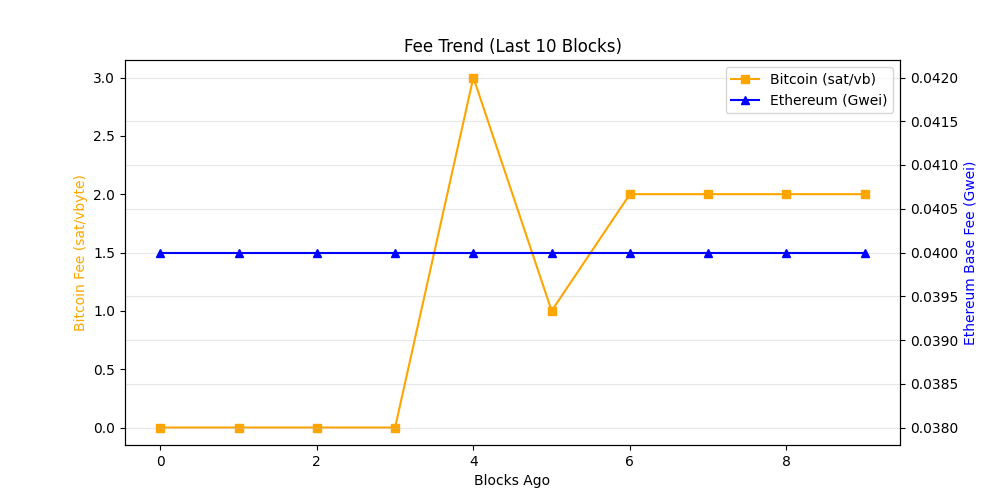
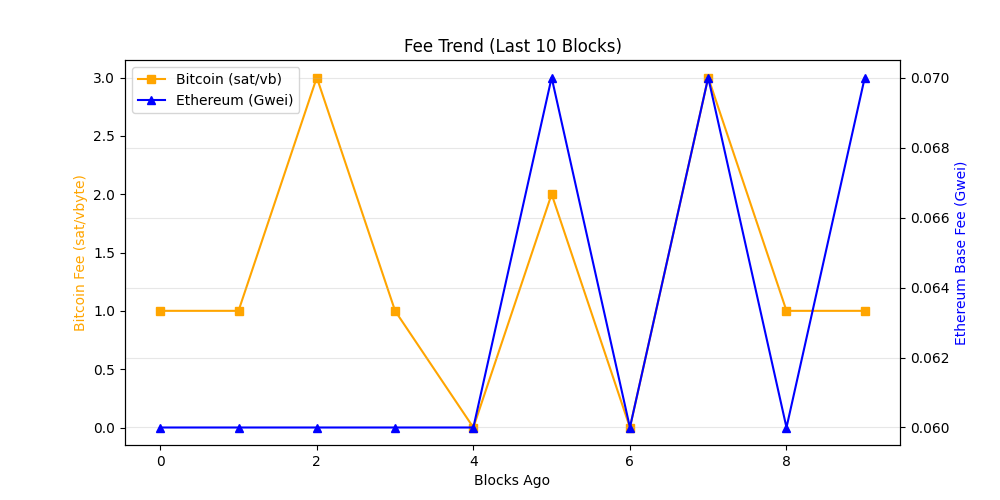
chore: update on-chain dashboard

diff --git a/README.md b/README.md
@@ -19,7 +19,7 @@ The README itself acts as the dashboard and is regenerated automatically on a 6 
 demonstrating a production-style, infrastructure-focused observability workflow rather
 than a traditional UI-driven approach.
 
-_Last updated: 2026-03-01 18:50 UTC_
+_Last updated: 2026-03-02 03:10 UTC_
 
 ## API Usage (GetBlock.io)
 - Calls used: **24**
@@ -27,8 +27,8 @@ _Last updated: 2026-03-01 18:50 UTC_
 ## Network Metrics
 | Chain | Block Height | TX Count | TPS (10 blk avg) | Block Util | Avg Fee |
 |------|-------------|----------|------------------|------------|---------|
-| Ethereum | 24564496 | 349 | 29.08 | 95.58% | 0.0 Gwei |
-| Bitcoin | 938903 | 2991 | 3.08 | 86.71% | N/A |
+| Ethereum | 24566986 | 641 | 53.42 | 50.76% | 0.1 Gwei |
+| Bitcoin | 938943 | 4285 | 11.13 | 99.8% | N/A |
 
 ## Visuals
 ### Transactions Trend
@@ -43,7 +43,10 @@ _Last updated: 2026-03-01 18:50 UTC_
 ## Whale Alerts (latest block)
 - Transaction hashes are truncated for readability.
 - Full hashes are available in `dashboards/metrics.json`
-No whale-sized transfers detected in latest blocks.
+- Bitcoin | 675.85 BTC | `d36c4911c40c…`
+- Bitcoin | 105.29 BTC | `b5b4bd93bf46…`
+- Bitcoin | 212.03 BTC | `9f262d4809bc…`
+- Bitcoin | 205.81 BTC | `da05e9f7d01e…`
 
 ## Run locally
 
